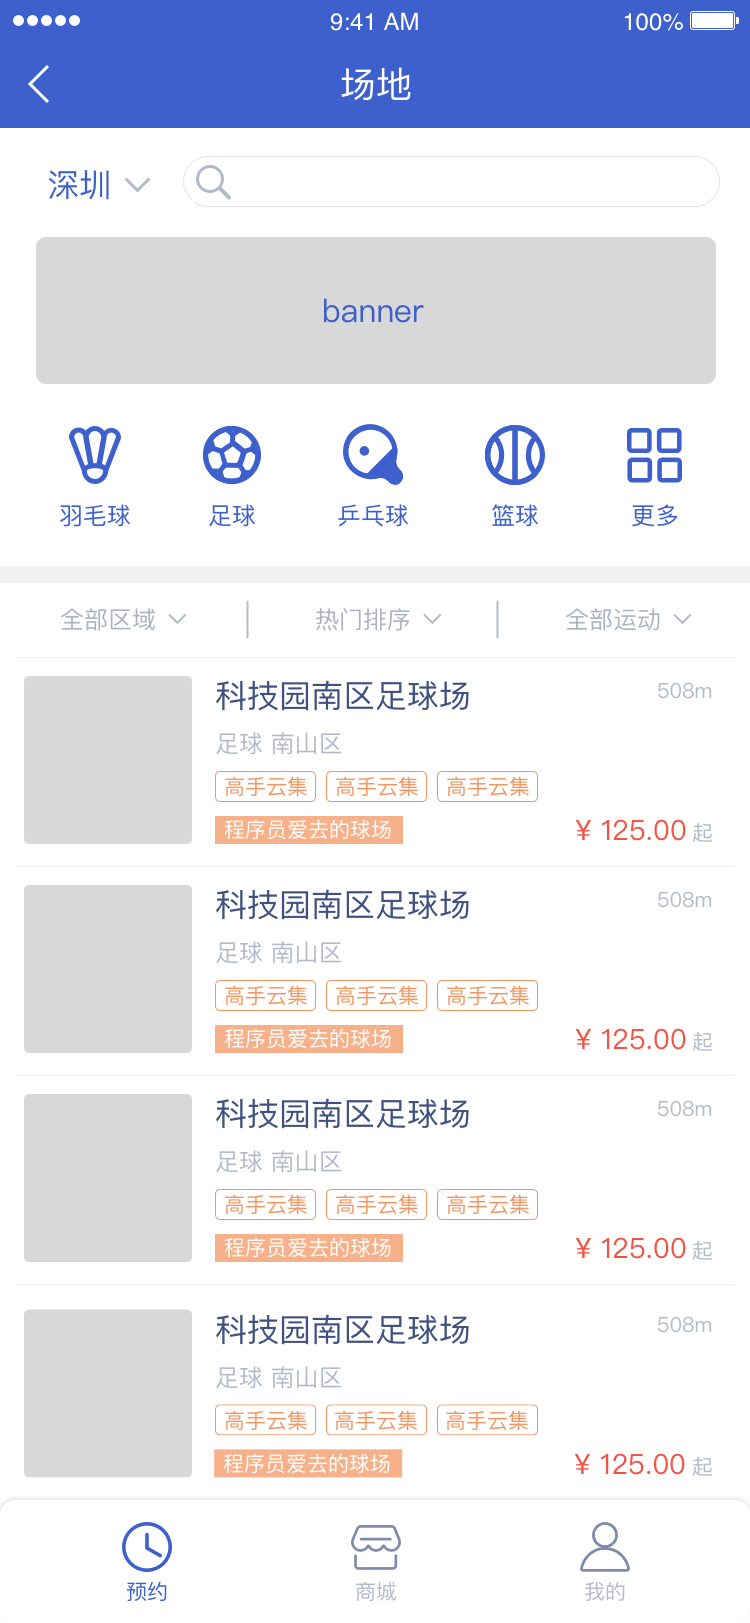
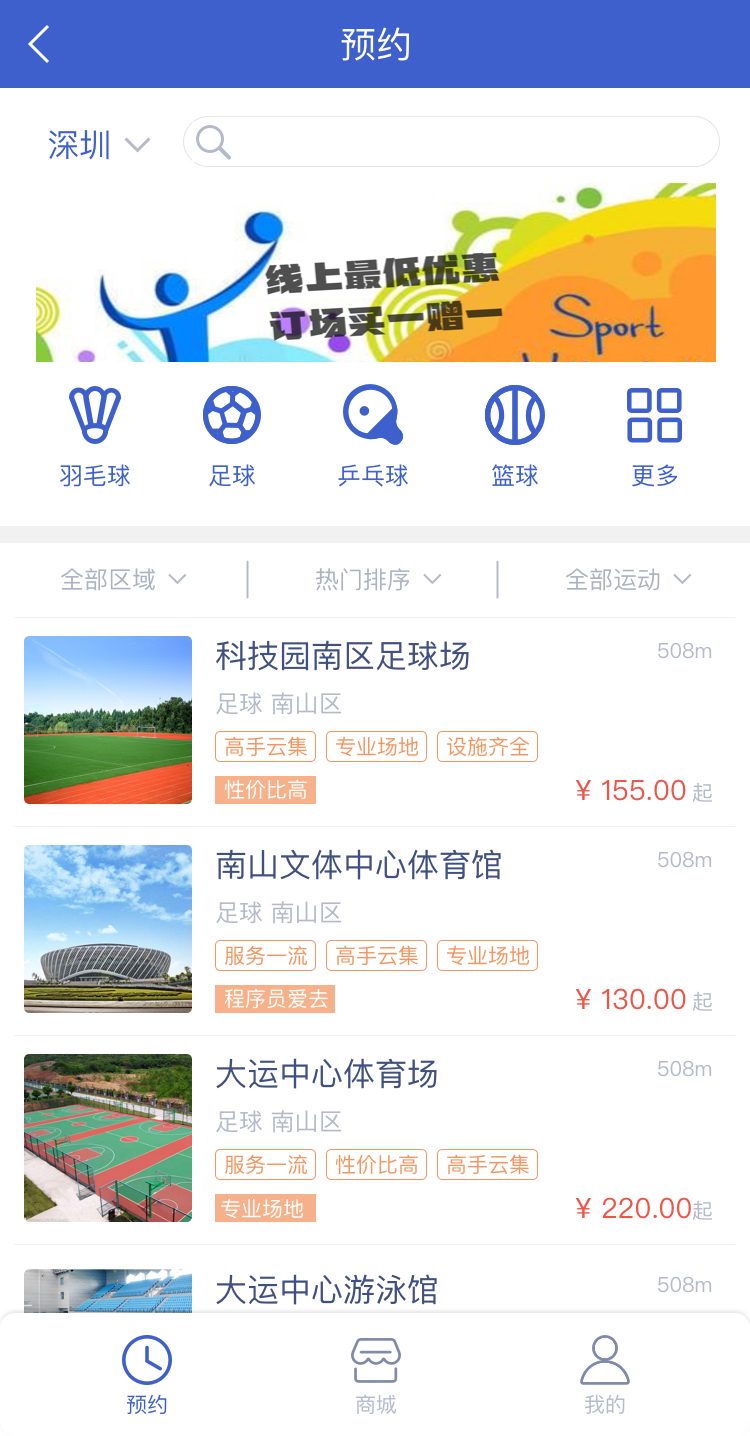
添加页面

diff --git a/src/components/Selector.vue b/src/components/Selector.vue
@@ -1,8 +1,20 @@
 <template>
   <div class="container div-col" :style="backgroundImg">
     <div class="div1 div-col"/>
-    <div class="div2 div-col"/>
+    <div class="div2 div-col">
+      <div class="select-box">
+        <div v-for="item in dateOptions" :key="item">
+          <input type="radio" name="date" id="item" :value="item" v-model="date">&nbsp;{{ item }}
+        </div>
+      </div>
+      <div class="select-box">
+        <div v-for="item in rangeOptions" :key="item">
+          <input type="radio" name="range" id="item" :value="item" v-model="range">&nbsp;{{ item }}
+        </div>
+      </div>
+    </div>
     <div class="div3 div-col"/>
+    <div class="div4 div-col" @click="submitOrder"/>
   </div>
 </template>
 
@@ -15,10 +27,18 @@ export default {
         backgroundRepeat: 'no-repeat',
         backgroundSize: '100% 100%',
         backgroundPosition: 'center center'
-      }
+      },
+      dateOptions: ['2020-08-03', '2020-08-04', '2020-08-05', '2020-08-06', '2020-08-07', '2020-08-08'],
+      date: '2020-08-03',
+      rangeOptions: ['9:30-10:30', '10:30-11:30', '13:30-14:30', '14:30-15:30', '15:30-16:30', '16:30-17:30'],
+      range: '9:30-10:30'
     }
   },
   methods: {
+    submitOrder () {
+      console.log(this.date, this.range)
+      this.$router.push({ path: '/order' })
+    }
   }
 }
 </script>
@@ -26,16 +46,31 @@ export default {
 <style scoped>
 .container{
   height: 1623px;
+  font-size: 30px;
 }
 .div1{
   height: 200px;
 }
 .div2{
   height: 550px;
+  display: flex;
+}
+.select-box{
+  width: 350px;
+  display: flex;
+  flex-direction: column;
+  justify-content: space-between;
 }
 .div3{
+  height: 770px;
+}
+.div4{
+  height: 123px;
 }
 .div-col{
   width: 734px;
+}
+input{
+ padding: 10px 0 0 0;
 }
 </style>

diff --git a/src/router/index.js b/src/router/index.js
@@ -1,7 +1,10 @@
 import Vue from 'vue'
 import Router from 'vue-router'
 import Reservation from '@/components/Reservation'
+import GymDetail from '@/components/GymDetail'
 import Selector from '@/components/Selector'
+import Order from '@/components/Order'
+import Mine from '@/components/Mine'
 
 Vue.use(Router)
 
@@ -13,9 +16,24 @@ export default new Router({
       component: Reservation
     },
     {
+      path: '/gymDetail',
+      name: 'GymDetail',
+      component: GymDetail
+    },
+    {
       path: '/select',
       name: 'Selector',
       component: Selector
+    },
+    {
+      path: '/order',
+      name: Order,
+      component: Order
+    },
+    {
+      path: '/mine',
+      name: Mine,
+      component: Mine
     }
   ]
 })

diff --git a/src/components/Order.vue b/src/components/Order.vue
@@ -1,0 +1,30 @@
+<template>
+  <div class="container div-col" :style="backgroundImg">
+  </div>
+</template>
+
+<script>
+export default {
+  data () {
+    return {
+      backgroundImg: {
+        backgroundImage: 'url(' + require('@/assets/confirmOrder.jpg') + ')',
+        backgroundRepeat: 'no-repeat',
+        backgroundSize: '100% 100%',
+        backgroundPosition: 'center center'
+      }
+    }
+  },
+  methods: {
+  }
+}
+</script>
+
+<style scoped>
+.container{
+  height: 1623px;
+}
+.div-col{
+  width: 734px;
+}
+</style>

diff --git a/src/components/GymDetail.vue b/src/components/GymDetail.vue
@@ -1,0 +1,30 @@
+<template>
+  <div class="container div-col" :style="backgroundImg">
+  </div>
+</template>
+
+<script>
+export default {
+  data () {
+    return {
+      backgroundImg: {
+        backgroundImage: 'url(' + require('@/assets/gymDetail.jpg') + ')',
+        backgroundRepeat: 'no-repeat',
+        backgroundSize: '100% 100%',
+        backgroundPosition: 'center center'
+      }
+    }
+  },
+  methods: {
+  }
+}
+</script>
+
+<style scoped>
+.container{
+  height: 1334px;
+}
+.div-col{
+  width: 734px;
+}
+</style>

diff --git a/src/components/Mine.vue b/src/components/Mine.vue
@@ -1,0 +1,30 @@
+<template>
+  <div class="container div-col" :style="backgroundImg">
+  </div>
+</template>
+
+<script>
+export default {
+  data () {
+    return {
+      backgroundImg: {
+        backgroundImage: 'url(' + require('@/assets/Mine.jpg') + ')',
+        backgroundRepeat: 'no-repeat',
+        backgroundSize: '100% 100%',
+        backgroundPosition: 'center center'
+      }
+    }
+  },
+  methods: {
+  }
+}
+</script>
+
+<style scoped>
+.container{
+  height: 1334px;
+}
+.div-col{
+  width: 734px;
+}
+</style>

diff --git a/src/components/Reservation.vue b/src/components/Reservation.vue
@@ -25,7 +25,7 @@ export default {
   },
   methods: {
     clickB () {
-      this.$router.push({ path: '/select' })
+      this.$router.push({ path: '/gymDetail' })
     },
     clickReservation () {
       this.$router.push({ path: '/' })
